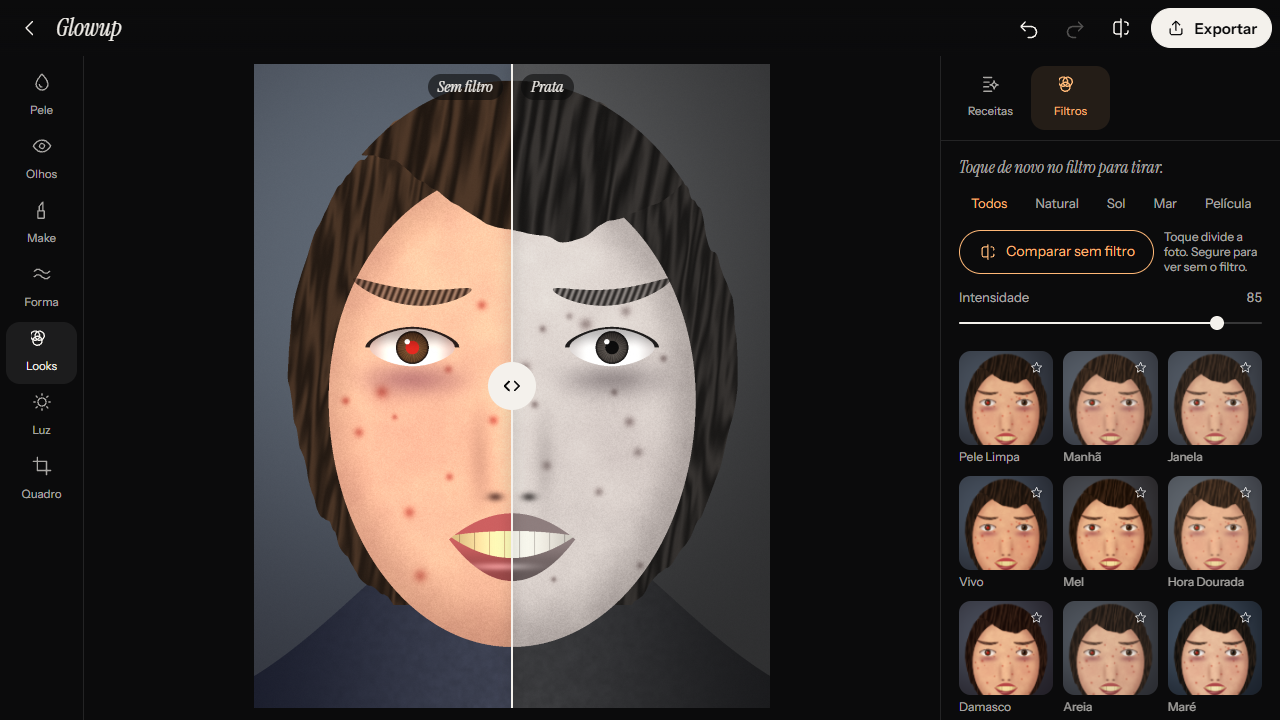
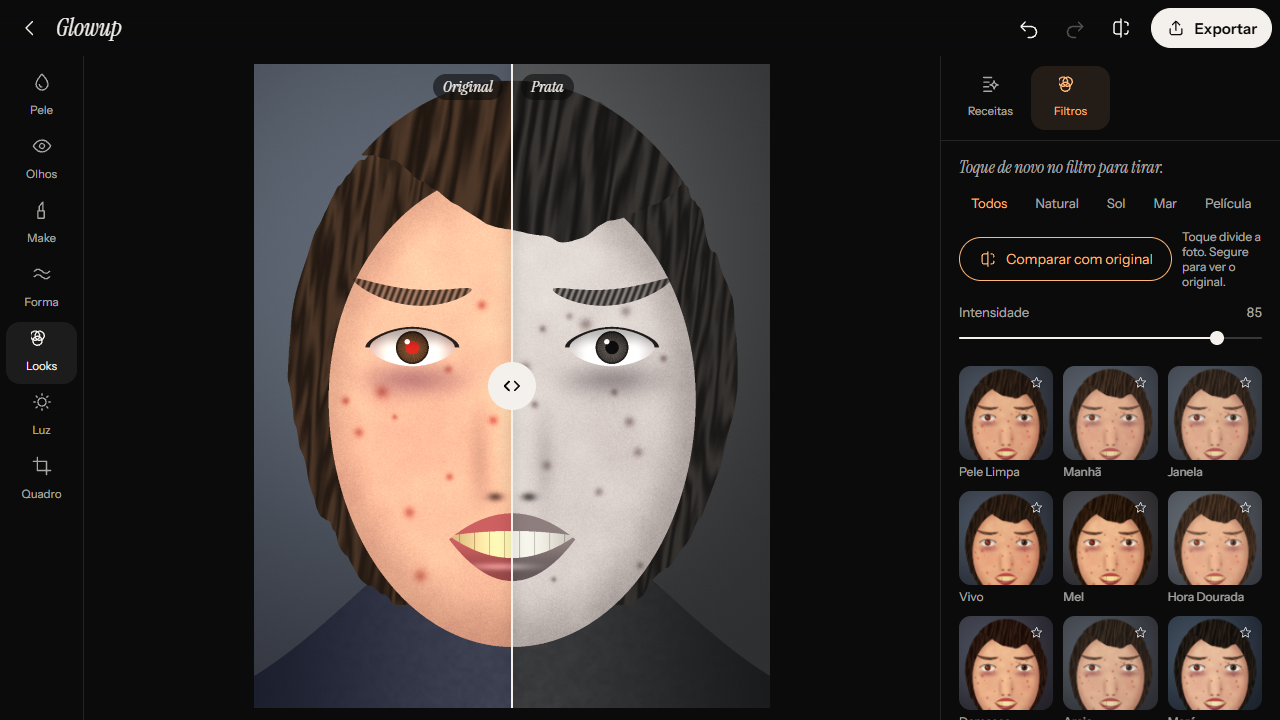
fix: call the filter comparison side "Original"

Changed region(s): [[0.75, 0.3056, 1.0, 1.0], [0.3438, 0.0917, 0.375, 0.1528]]

diff --git a/tests/e2e/feedback.spec.ts b/tests/e2e/feedback.spec.ts
@@ -245,7 +245,7 @@ test.describe('resposta ao usuário', () => {
     await button.click();
     await page.mouse.move(2, 2);
     await settle(page, 1200);
-    await expect(page.getByTestId('compare-line')).toContainText('Sem filtro');
+    await expect(page.getByTestId('compare-line')).toContainText('Original');
     await expect(page.getByTestId('compare-line')).toContainText('Prata');
     const split = await photoShot(page);
     expect(await regionDiff(page, split, plain, 0, 0.42)).toBeLessThan(1.5);
@@ -271,7 +271,7 @@ test.describe('resposta ao usuário', () => {
 
     // Removing the filter ends the comparison that depends on it.
     await button.click();
-    await expect(page.getByTestId('compare-line')).toContainText('Sem filtro');
+    await expect(page.getByTestId('compare-line')).toContainText('Original');
     await page.locator('[data-filter=mel]').click();
     await expect(page.getByTestId('compare-line')).toHaveCount(0);
   });

diff --git a/src/ui/panels/FiltersPanel.svelte b/src/ui/panels/FiltersPanel.svelte
@@ -80,9 +80,9 @@
   <div class="compare">
     <button type="button" class="btn" class:on={comparing} aria-pressed={comparing} data-testid="compare-filter" use:comparePress={'filter'}>
       <Icon name="compare" size={20} />
-      Comparar sem filtro
+      Comparar com original
     </button>
-    <span class="tip">Toque divide a foto. Segure para ver sem o filtro.</span>
+    <span class="tip">Toque divide a foto. Segure para ver o original.</span>
   </div>
   <Slider
     label="Intensidade"

diff --git a/src/ui/CompareOverlay.svelte b/src/ui/CompareOverlay.svelte
@@ -26,7 +26,7 @@
 
   const box = $derived((ui.rev, photoBox()));
   const lineX = $derived(ui.splitX * box.width);
-  const beforeLabel = $derived(ui.compareScope === 'filter' ? 'Sem filtro' : 'Antes');
+  const beforeLabel = $derived(ui.compareScope === 'filter' ? 'Original' : 'Antes');
   const afterLabel = $derived(ui.compareScope === 'filter' ? ui.filterName : 'Depois');
 
   function set(v: number) {

diff --git a/docs/DESIGN.md b/docs/DESIGN.md
@@ -97,7 +97,7 @@ Duas comparações, cada uma com uma pergunta:
 
 - O botão da barra superior responde "o que mudou desde a foto original?".
 - O botão do painel de filtros responde "o que este filtro faz?". O antes é a foto com todos os
-  retoques, só sem o filtro, e as etiquetas dizem "Sem filtro" e o nome do filtro.
+  retoques, só sem o filtro, e as etiquetas dizem "Original" e o nome do filtro.
 
 Tocar divide a foto, segurar mostra o antes. A divisão fica enquanto a pessoa experimenta outros
 filtros, para comparar sem perder o lugar. Ela nasce no centro da foto, não da tela, e não sai dela.
